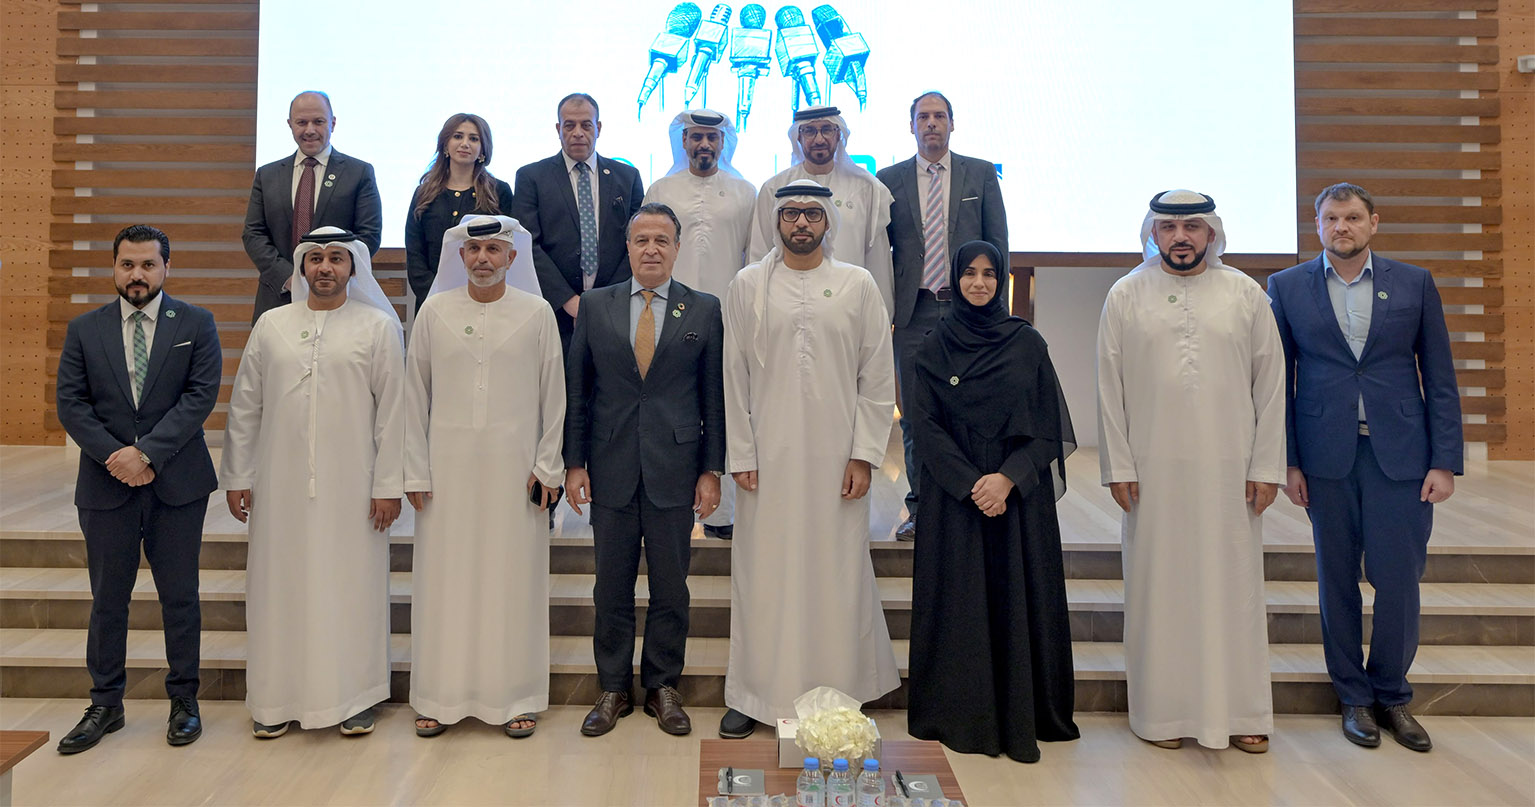
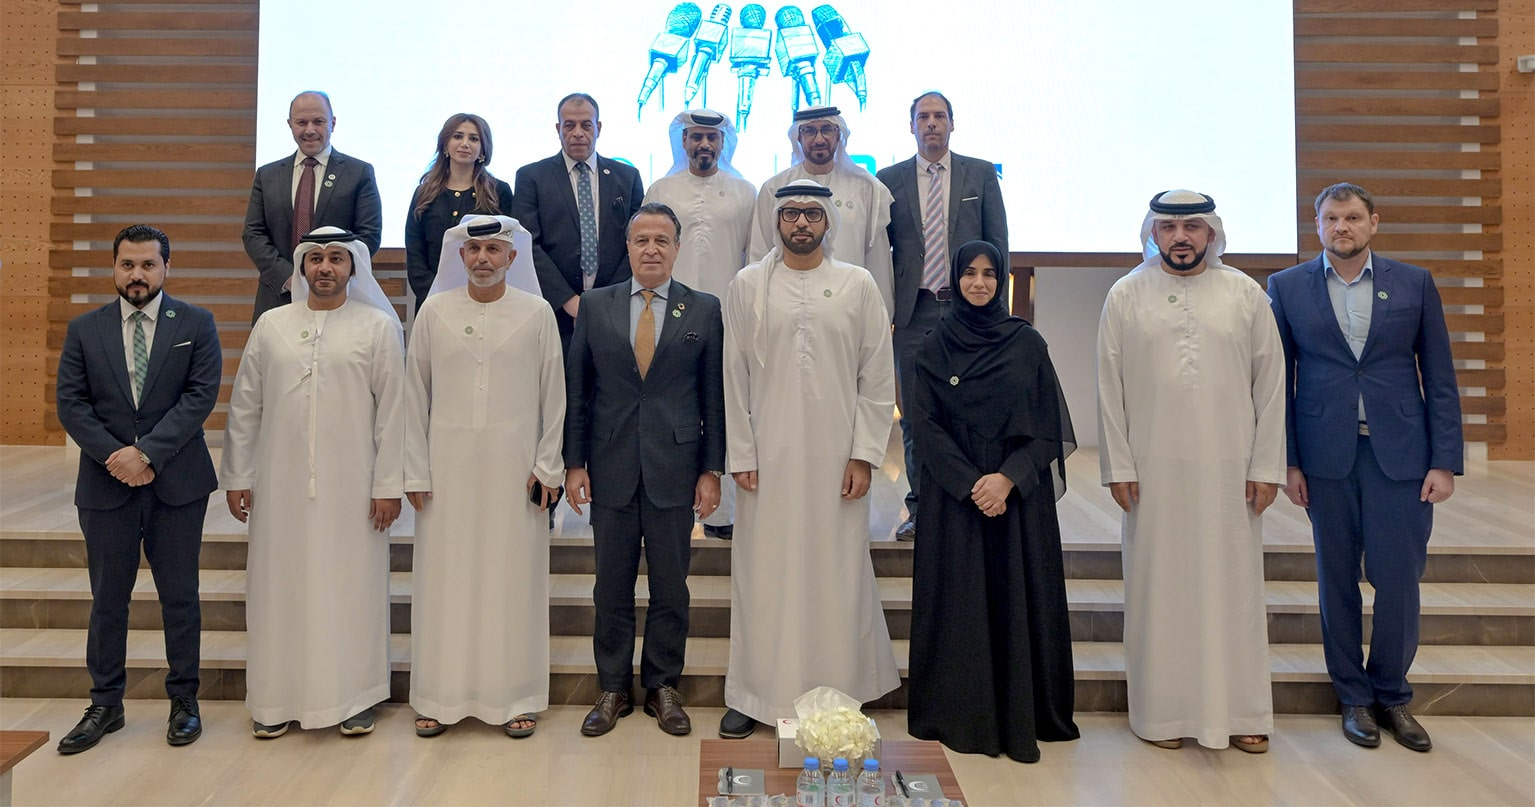
Rosnama page coded

Changed region(s): [[0.398, 0.0, 0.5818, 0.1549], [0.5511, 0.1859, 0.5818, 0.2169]]

diff --git a/components/ActivitiesRosnama.tsx b/components/ActivitiesRosnama.tsx
@@ -1,0 +1,65 @@
+import { actionBtns, cardsDetails, eventDetails } from "@/constants/landing"
+import Image from "next/image"
+
+export default function ActivitiesRosnama() {
+  return (
+    <section className="modern-actions p-6 container mx-auto mb-4 max-md:mb-6">
+      <div className="title mb-3 text-[24px] font-bold text-slate-800">أحدث الفعاليات</div>
+      <div className="content flex items-center w-full bg-neutral-950 rounded-l-lg max-lg:flex-col overflow-hidden rounded-lg">
+        <div className="right-image h-full max-lg:mx-4">
+          <Image src={"/activities/_activitiy-2.jpeg"} alt="Img" className="h-full aspect-[4/4] max-lg:mt-4 max-lg:rounded-lg max-lg:aspect-auto object-cover" width={400} height={400} />
+        </div>
+        <div className="content mr-6 py-3 max-lg:p-6 max-lg:mr-0 flex items-center max-lg:flex-col-reverse">
+          <div className="details">
+            <span className="type text-[#E2AE63] font-bold">لقاء</span>
+            <h3 className="title text-white font-bold text-[18px] mb-2">فعاليه العطاء لحفظ النعم</h3>
+            <p className="desc w-[50%] max-lg:w-full my-3 text-neutral-300 leading-[1.7] text-[14px]">انطلاقاً من أهداف رؤيـة المملكـة العربيـة السعوديـة 2030 في تعظيم أثـر القطــاع غيـر الربحـي فـي التنمية وتمكين منظمات القطاع للقيام بأدوارها التنمويـة وزيـادة مساهمتها فـي الناتـج المحلي الإجمالي</p>
+            <div className="user-actions-wrapper flex items-center gap-3 mt-4 max-md:flex-col max-md:items-start">
+              <div className="action-btns flex gap-3 items-center max-md:text-[14px]" >
+                {actionBtns.map((ele, index) => (
+                  <button
+                    type="button"
+                    key={index}
+                    className={`rounded-md cursor-pointer transition-all text-[14px] p-2 font-bold border-2 border-solid ${
+                      ele.favourite
+                        ? "bg-white text-[#E2AE63] border-white hover:border-[#E2AE63] hover:bg-[#E2AE63] hover:text-white"
+                        : " text-black bg-[#E2AE63] px-7 border-[#E2AE63] hover:bg-transparent hover:text-white"
+                    } `}
+                  >
+                    {ele.favourite ? ele.icon : ele.text}
+                  </button>
+                ))}
+              </div>
+              <div className="event-details max-md:text-[14px] flex items-center gap-3 max-md:flex-col max-md:items-start" >
+                {eventDetails.map((ele, index) => (
+                  <div
+                    className="detail-card flex items-center gap-2"
+                    key={index}
+                  >
+                    <div className="icon text-[#E2AE63]">{ele.icon}</div>
+                    <span className="font-bold text-white text-[14px]">{ele.text}</span>
+                  </div>
+                ))}
+              </div>
+            </div>
+          </div>
+          <div className="time-remaining flex flex-wrap gap-5 text-center max-lg:mb-6 max-lg:justify-center">
+            {cardsDetails.map((ele, index) => (
+              <div
+                className="card w-[80px] h-[80px] max-md:w-[90px] max-md:h-[90px] bg-[#FFFFFF4D] rounded-md flex items-center justify-center flex-col"
+                key={index}
+              >
+                <span className="text-[#E2AE63] font-bold text-[20px]">
+                  {ele.count}
+                </span>
+                <span className="text-[14px] font-light text-white">
+                  {ele.text}
+                </span>
+              </div>
+            ))}
+          </div>
+        </div>
+      </div>
+    </section>
+  )
+}

diff --git a/components/Rosnama.tsx b/components/Rosnama.tsx
@@ -1,0 +1,36 @@
+import { IoSearch } from "react-icons/io5";
+import Image from "next/image";
+
+export default function Rosnama() {
+  const types = ["الفعاليات", "الأمسيات", "اللقاءات", "المؤتمرات", "الندوات", "هذا الشهر", "الرياض"];
+
+  return (
+    <>
+      <section className="rosnama-landing px-6 py-10 bg-gradient-to-br from-[#C39E61] to-[#E2AE63] overflow-hidden mb-8 rounded-b-3xl relative">
+        <div className="img absolute -top-1 left-0 h-full z-0 pointer-events-none max-md:w-full">
+          <Image src={"/bg-icon-lines.png"} alt="Ellipse" width={900} height={900} />
+        </div>
+        <div className="img absolute right-0 -bottom-12 h-full z-0 pointer-events-none max-lg:hidden">
+          <Image src={"/bg-icon-lines-1.png"} alt="Ellipse" width={360} height={360} />
+        </div>
+        {/* <Image src={"/bg-icon-lines.png"} alt="Ellipse" width={800} height={800} className="absolute -top-1 -left-4" /> */}
+        <div className="container mx-auto text-center z-20 relative">
+          <h1 className="title text-[34px] font-bold text-neutral-950 mb-2">الفعاليات</h1>
+          <p className="desc w-[56%] text-neutral-800 font-bold leading-[1.7] mx-auto max-lg:w-full">شهد العمل الخيري تطورات كبيرة انتقل معها من الجهود الفردية إلى العمل المؤسسي، مما استدعى تنظيمه لتحقيق أهدافه بفعالية. لذا جاء مداد كمركز متخصص في الدراسات </p>
+          <div className="search-container flex items-center justify-center mt-8 mb-4">
+            <input type="text" name="search-query" placeholder="البحث" className="w-[25%] max-lg:w-full h-[40px] outline-0 bg-white rounded-r-md px-3" />
+            <button type="submit" className="text-white bg-neutral-950 w-[40px] h-[40px] rounded-l-md flex items-center justify-center cursor-pointer">
+              <IoSearch size={22} />
+            </button>
+          </div>
+          <div className="sort-card-group flex items-center gap-4 w-fit mx-auto flex-wrap justify-center">
+            { types.map((ele, index) => (
+              <div className={`sort-card py-2 px-4 cursor-pointer transition-all max-lg:text-[14px] ${index === 0 ? "bg-white font-bold" : "bg-[#ffffff78] font-semibold hover:bg-white"} rounded-md`} key={index}>{ele}</div>
+            )) }
+          </div>
+        </div>
+      </section>
+      
+    </>
+  )
+}

diff --git a/components/ModernActivities.tsx b/components/ModernActivities.tsx
@@ -15,8 +15,8 @@ export default function ModernActivities() {
           <ModernActivityCard key={index} data={ele} />
         )) }
       </div>
-      { showMore == 4 && (
-        <button type="button" onClick={() => setShowMore(8)} className="show-more-activities py-3 px-5 bg-[#E2AE63] text-neutral-950 font-bold mt-6 mx-auto rounded-md block cursor-pointer transition-all hover:bg-transparent hover:text-[#E2AE63] border-2 border-solid border-[#E2AE63]">جميع الفعاليات</button>
+      { showMore < moderActivities.length && (
+        <button type="button" onClick={() => setShowMore(showMore + 4)} className="show-more-activities py-3 px-5 bg-[#E2AE63] text-neutral-950 font-bold mt-6 mx-auto rounded-md block cursor-pointer transition-all hover:bg-transparent hover:text-[#E2AE63] border-2 border-solid border-[#E2AE63]">جميع الفعاليات</button>
       ) }
     </section>
   )

diff --git a/constants/modern-activities.ts b/constants/modern-activities.ts
@@ -47,4 +47,28 @@ export const moderActivities = [
     date: "١٠ رمضان ١٤٤٨",
     imgurl: "/activities/_activitiy-2.jpeg",
   },
+  {
+    type: "لقاء",
+    title: "فعاليه العطاء لحفظ النعم",
+    date: "١٠ رمضان ١٤٤٨",
+    imgurl: "/activities/_activitiy-2.jpeg",
+  },
+  {
+    type: "امسيه",
+    title: "امسيه امراء النوايا الحسنه",
+    date: "١٠ رمضان ١٤٤٨",
+    imgurl: "/activities/_activitiy-1.jpeg",
+  },
+  {
+    type: "لقاء",
+    title: "فعاليه العطاء لحفظ النعم",
+    date: "١٠ رمضان ١٤٤٨",
+    imgurl: "/activities/_activitiy-2.jpeg",
+  },
+  {
+    type: "امسيه",
+    title: "امسيه امراء النوايا الحسنه",
+    date: "١٠ رمضان ١٤٤٨",
+    imgurl: "/activities/_activitiy-1.jpeg",
+  },
 ]

diff --git a/components/AllActivitiesRosnama.tsx b/components/AllActivitiesRosnama.tsx
@@ -1,0 +1,17 @@
+"use client";
+
+import { moderActivities } from "@/constants/modern-activities";
+import ModernActivityCard from "./ui/modern-activity-card";
+
+export default function AllActivitiesRosnama() {
+  return (
+    <section className="modern-actions p-6 container mx-auto mb-12 max-md:mb-6">
+      <div className="title mb-3 text-[24px] font-bold text-slate-800">كل الفعاليات</div>
+      <div className="modern-actions-group gap-5 grid grid-cols-4 max-lg:grid-cols-3 max-md:grid-cols-2 max-sm:grid-cols-1">
+        { moderActivities.map((ele, index) => (
+          <ModernActivityCard key={index} data={ele} />
+        )) }
+      </div>
+    </section>
+  )
+}

diff --git a/app/(root)/rosnama/page.tsx b/app/(root)/rosnama/page.tsx
@@ -1,0 +1,13 @@
+import AllActivitiesRosnama from "@/components/AllActivitiesRosnama";
+import ActivitiesRosnama from "@/components/ActivitiesRosnama";
+import Rosnama from "@/components/Rosnama";
+
+export default function Page() {
+  return (
+    <>
+      <Rosnama />
+      <ActivitiesRosnama />
+      <AllActivitiesRosnama />
+    </>
+  )
+}
